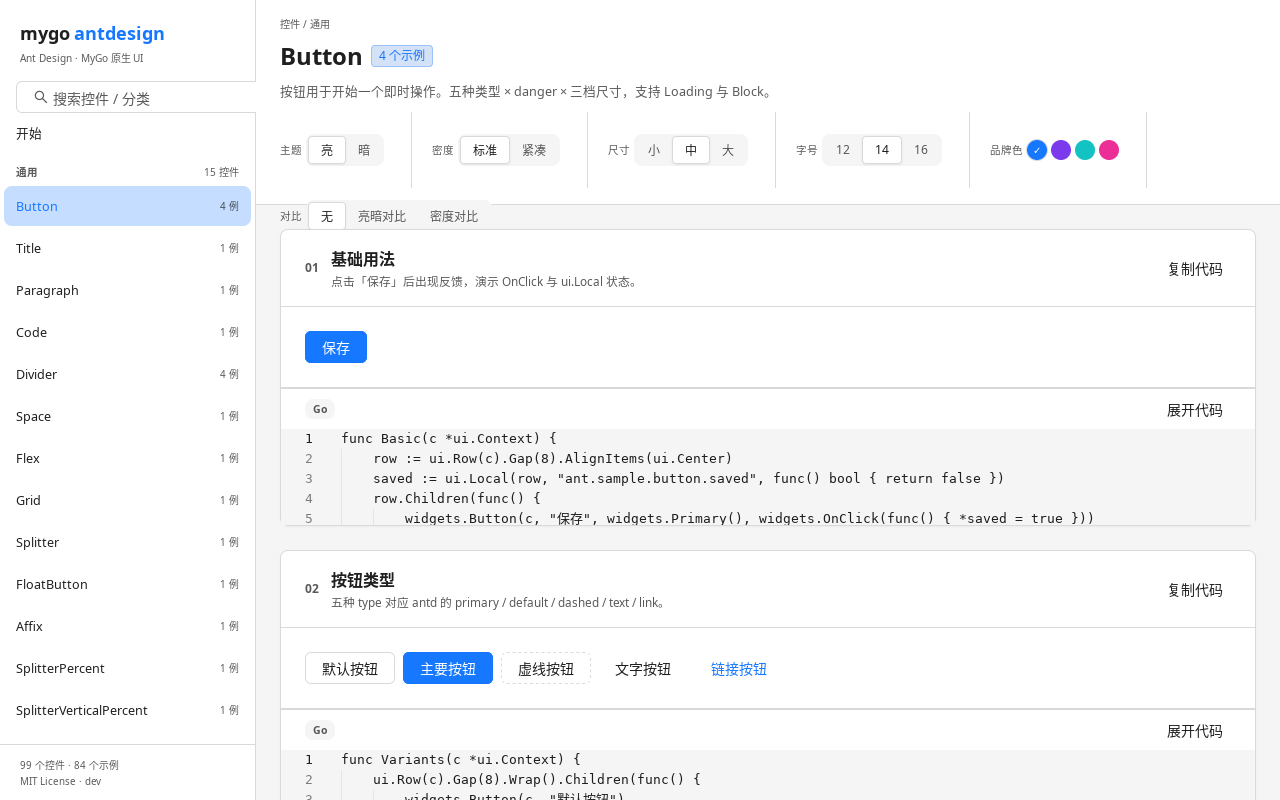
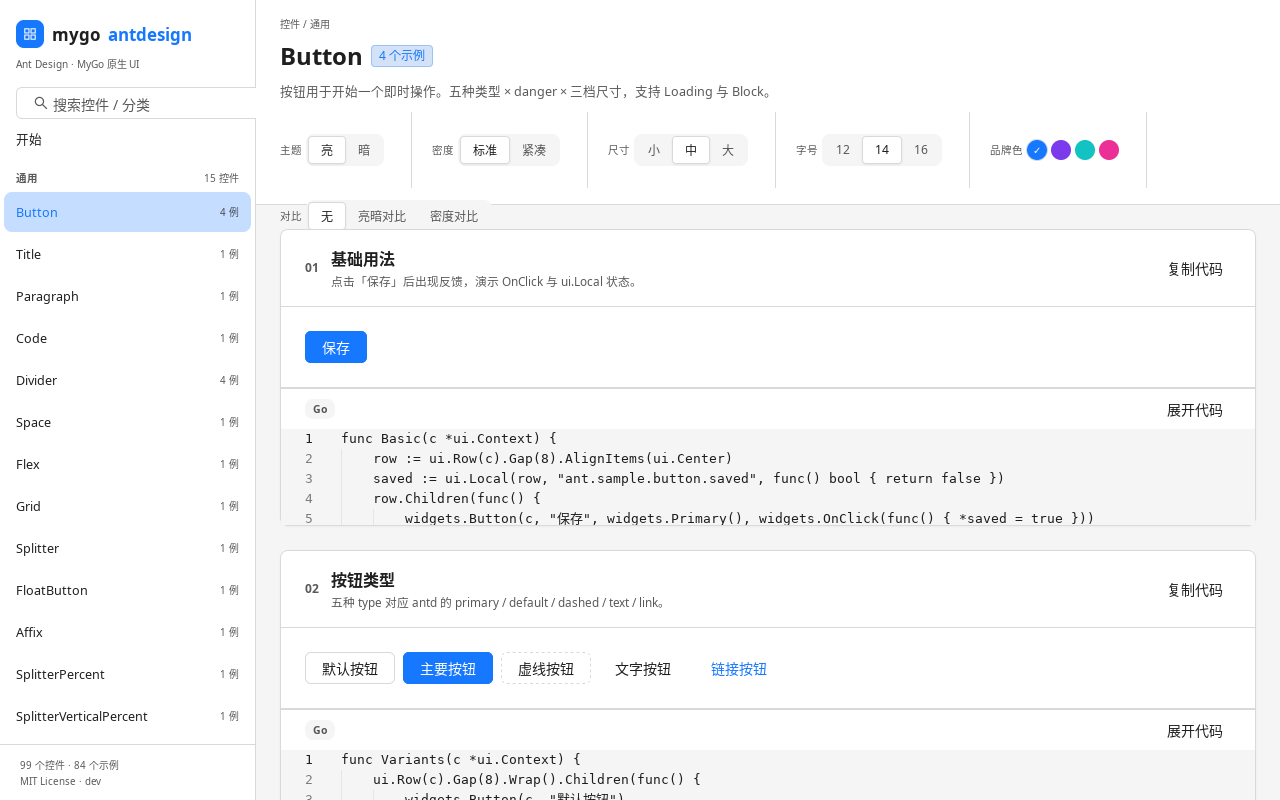
style(gallery): 首页专业化——设计体系对齐 antd 官网形制
- 侧栏品牌区加 28px 主色圆角 Logo 标（Appstore 图标反白）
- 首页主视觉升级为品牌色浅底 Hero 横幅：8% 主色底 + 14% 主色描边，
  内含版本/协议 Tag（Row 包裹避免拉伸为通栏）、双色字标与主行动按钮
- 统计卡对齐 antd Statistic 左对齐形制，统一卡片圆角为 8px
- 特性卡加 20px 主色图标色块 + 标题行，2×2 网格保持不变
- docs/09 补充第四轮记录；README 截图重新生成

diff --git a/gallery/app.go b/gallery/app.go
@@ -248,15 +248,22 @@ func (g *Gallery) sidebar(c *ui.Context) {
 		Border(1, t.Border).BorderWidth(0, 1, 0, 0)
 
 	side.Children(func() {
-		// 品牌区。
+		// 品牌区：Logo 标 + 双色字标 + 副标语。
 		brand := ui.Column(c).FillWidth().
-			Padding(t.Space(5), t.Space(5), t.Space(4), t.Space(5)).
-			Gap(t.Space(1))
+			Padding(t.Space(5), t.Space(4), t.Space(4), t.Space(4)).
+			Gap(t.Space(2))
 		brand.Children(func() {
-			row := ui.Row(c).AlignItems(ui.Center).Gap(t.Space(1))
+			row := ui.Row(c).AlignItems(ui.Center).Gap(t.Space(2))
 			row.Children(func() {
-				ui.Text(c, "mygo").FontWeight(700).FontSize(t.Rem(1.29)).TextColor(t.Text)
-				ui.Text(c, "antdesign").FontWeight(700).FontSize(t.Rem(1.29)).TextColor(t.Accent)
+				logo := ui.Column(c).Size(t.Space(7), t.Space(7)).
+					Radius(t.Radius + t.Space(0.5)).
+					Background(t.Accent).
+					Center()
+				logo.Children(func() {
+					icon.Icon(c, icon.Appstore, t.Space(4), icon.WithColor(ui.Hex("#fff")))
+				})
+				ui.Text(c, "mygo").FontWeight(700).FontSize(t.Rem(1.21)).TextColor(t.Text)
+				ui.Text(c, "antdesign").FontWeight(700).FontSize(t.Rem(1.21)).TextColor(t.Accent)
 			})
 			ui.Text(c, "Ant Design · MyGo 原生 UI").TextColor(t.TextMuted).FontSize(t.Rem(0.72))
 		})
@@ -521,10 +528,19 @@ func (g *Gallery) homePage(c *ui.Context) {
 	ui.Scroll(c).Fill().Children(func() {
 		col := ui.Column(c).FillWidth().Padding(t.Space(10), t.Space(14)).Gap(t.Space(8))
 
-		// 主视觉。
+		// 主视觉：品牌色浅底 Hero 横幅（对齐 antd 首页 hero 形制）。
 		col.Children(func() {
-			hero := ui.Column(c).FillWidth().Gap(t.Space(2))
+			hero := ui.Column(c).FillWidth().
+				Padding(t.Space(10), t.Space(9)).
+				Radius(t.Radius+t.Space(0.5)).
+				Background(t.Accent.Alpha(0.05)).
+				Border(1, t.Accent.Alpha(0.14)).
+				Gap(t.Space(3))
 			hero.Children(func() {
+				meta := ui.Row(c)
+				meta.Children(func() {
+					widgets.Tag(c, "v"+version+" · MIT · 开箱即用", widgets.TagPrimary())
+				})
 				row := ui.Row(c).AlignItems(ui.Center).Gap(t.Space(2))
 				row.Children(func() {
 					ui.Text(c, "mygo").FontWeight(700).FontSize(t.Rem(2.86)).TextColor(t.Text)
@@ -533,7 +549,7 @@ func (g *Gallery) homePage(c *ui.Context) {
 				ui.Text(c, "Ant Design 风格的 MyGo 原生控件库").FontSize(t.Rem(1.29)).TextColor(t.TextMuted)
 				ui.Text(c, "为 MyGo 原生 UI 提供 antd v5 视觉与交互，补齐 antd 有而 MyGo 没有的控件；亮暗双主题、标准/紧凑双密度，全部控件配真实代码示例与截图基线。").
 					TextColor(t.TextMuted).FontSize(t.Rem(1.0))
-				actions := ui.Row(c).AlignItems(ui.Center).Gap(t.Space(3)).Margin(t.Space(3), 0, 0, 0)
+				actions := ui.Row(c).AlignItems(ui.Center).Gap(t.Space(3)).Margin(t.Space(2), 0, 0, 0)
 				actions.Children(func() {
 					if widgets.Button(c, "浏览控件", widgets.Primary(), widgets.Size(widgets.Large)).Clicked() {
 						g.selected = "Button"
@@ -544,7 +560,7 @@ func (g *Gallery) homePage(c *ui.Context) {
 			})
 		})
 
-		// 统计数值。
+		// 统计数值：antd Statistic 左对齐形制。
 		col.Children(func() {
 			row := ui.Row(c).FillWidth().Gap(t.Space(4))
 			row.Children(func() {
@@ -558,12 +574,11 @@ func (g *Gallery) homePage(c *ui.Context) {
 					{"截图基线", 324},
 				} {
 					card := ui.Column(c).Grow(1).
-						Padding(t.Space(6), t.Space(4)).
-						Radius(t.Radius+t.Space(1)).
+						Padding(t.Space(6), t.Space(5)).
+						Radius(t.Radius+t.Space(0.5)).
 						Background(t.Surface).
 						Border(1, t.Border).
-						AlignItems(ui.Center).
-						Gap(t.Space(2))
+						Gap(t.Space(1))
 					card.Children(func() {
 						widgets.Statistic(c, st.title, st.value)
 					})
@@ -571,27 +586,38 @@ func (g *Gallery) homePage(c *ui.Context) {
 			})
 		})
 
-		// 特性卡片：2×2 等宽网格。
+		// 特性卡片：图标色块 + 2×2 等宽网格。
 		col.Children(func() {
 			row := ui.Row(c).FillWidth().Gap(t.Space(4)).Wrap()
 			row.Children(func() {
 				for _, f := range []struct {
+					icon  string
 					title string
 					desc  string
 				}{
-					{"主题切换", "亮/暗、品牌色、字号运行时切换，所有控件同步生效。"},
-					{"双密度", "标准 32px / 紧凑 28px 控件高度，适配上位机与 IDE 场景。"},
-					{"缺口补齐", "antd 有而 MyGo 没有的 35 个控件全部自建实现。"},
-					{"视觉回归", "3 张 Gallery + 324 张逐示例截图基线，CI 逐字节比对。"},
+					{icon.Eye, "主题切换", "亮/暗、品牌色、字号运行时切换，所有控件同步生效。"},
+					{icon.Menu, "双密度", "标准 32px / 紧凑 28px 控件高度，适配上位机与 IDE 场景。"},
+					{icon.Appstore, "缺口补齐", "antd 有而 MyGo 没有的 35 个控件全部自建实现。"},
+					{icon.Copy, "视觉回归", "3 张 Gallery + 324 张逐示例截图基线，CI 逐字节比对。"},
 				} {
 					card := ui.Column(c).Grow(1).Width(t.Space(96)).
 						Padding(t.Space(6)).
-						Radius(t.Radius+t.Space(1)).
+						Radius(t.Radius+t.Space(0.5)).
 						Background(t.Surface).
 						Border(1, t.Border).
 						Gap(t.Space(2))
 					card.Children(func() {
-						ui.Text(c, f.title).FontSize(t.Rem(1.14)).FontWeight(600).TextColor(t.Text)
+						head := ui.Row(c).AlignItems(ui.Center).Gap(t.Space(2))
+						head.Children(func() {
+							tile := ui.Column(c).Size(t.Space(7), t.Space(7)).
+								Radius(t.Radius).
+								Background(t.Accent.Alpha(0.1)).
+								Center()
+							tile.Children(func() {
+								icon.Icon(c, f.icon, t.Space(4), icon.WithColor(t.Accent))
+							})
+							ui.Text(c, f.title).FontSize(t.Rem(1.14)).FontWeight(600).TextColor(t.Text)
+						})
 						ui.Text(c, f.desc).TextColor(t.TextMuted).FontSize(t.Rem(0.9))
 					})
 				}
@@ -601,7 +627,7 @@ func (g *Gallery) homePage(c *ui.Context) {
 		// 快速开始：语法高亮的只读代码视图。
 		col.Children(func() {
 			code := ui.Column(c).FillWidth().
-				Radius(t.Radius+t.Space(1)).
+				Radius(t.Radius+t.Space(0.5)).
 				Background(t.Surface).
 				Border(1, t.Border).
 				Shadow(0, 1, 2, 0, t.Text.Alpha(0.04))

diff --git a/docs/09-antd-parity.md b/docs/09-antd-parity.md
@@ -98,6 +98,16 @@ README 截图已重新生成。
 | 品牌色圆点 | 选中态 2px 黑圈，生硬 | antd ColorPicker 形制：白色对勾 + 1px 描边环 |
 | Button 等控件配色 | 复审 ButtonColors：primary/default/dashed/text/link 五型与 hover/pressed 色阶均对齐 antd v5（default hover 文字与描边变主色、text hover 浅填充、link 主色文字），未发现违背 | 无需改动 |
 
+### 3.3 第四轮：首页专业化（设计体系对齐）
+
+| 区域 | 打磨前 | 打磨后 |
+| --- | --- | --- |
+| 侧栏品牌区 | 纯文字双色字标 | 28px 主色圆角 Logo 标（Appstore 图标反白）+ 字标 |
+| 首页主视觉 | 平铺文字直排 | 品牌色浅底 Hero 横幅（8% 主色底 + 14% 主色描边、borderRadiusLG），内含版本/协议 Tag、双色字标、主行动按钮 |
+| 统计卡 | 居中对齐（违背 antd Statistic 左对齐形制） | 左对齐、统一 8px 圆角与 20/24px 内边距 |
+| 特性卡 | 纯文字 | 20px 主色圆角图标色块（8% 主色底 + 主色图标）+ 标题行 |
+| 卡片圆角 | 统一为 borderRadiusLG（8px） | Hero/统计/特性/快速开始/示例卡全部一致 |
+
 ## 4. 仍存在的差异（有意保留 / 后续）
 
 | 项 | 说明 |
